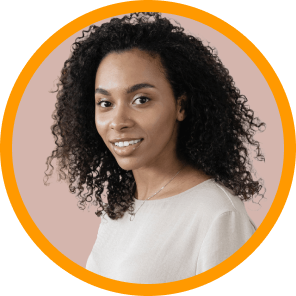
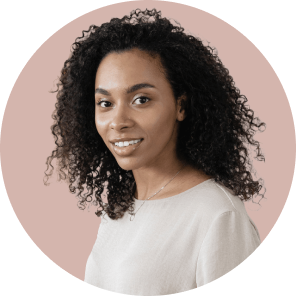
--refactor: slider fixes, merge conflicts fix

Changed region(s): [[0.0, 0.0, 1.0, 1.0]]

diff --git a/index.css b/index.css
@@ -15,29 +15,30 @@
 }
 
 :root {
-	--app-green-200: #00cf8e;
-	--app-blue-200: #00bdff;
-	--app-blue-400: #0043ff;
-	--app-blue-600: #11163b;
-	--app-blue-800: #00081f;
-	--app-black: #000;
-	--app-white: #fff;
-	--app-gray-100: #f8f8f8;
-	--app-gray-400: #cfcfcf;
-	--app-pink-100: #d0c4c4;
-	--app-orange: #ff9900;
-	--app-red: #f84550;
-	--app-primary-font: 'Open sans', helvetica;
-	--app-secondary-font: 'Coolvetica', sans-serif;
-	--app-border-radius-sm: 10px;
-	--app-letter-spacing-lg: 0.5rem;
-	--header-z-index: 1000;
-	--sidebar-z-index: 1500;
-	--form-z-index: 2000;
-	--overlay-z-index: 2000;
-	--modal-z-index: 2000;
-	--loader-z-index: 2500;
-	--toast-z-index: 2500;
+  --app-green-200: #00cf8e;
+  --app-blue-200: #00bdff;
+  --app-blue-400: #0043ff;
+  --app-blue-600: #11163b;
+  --app-blue-800: #00081f;
+  --app-black: #000;
+  --app-white: #fff;
+  --app-gray-100: #f8f8f8;
+  --app-gray-400: #cfcfcf;
+  --app-pink-100: #d0c4c4;
+  --app-orange: #ff9900;
+  --app-red: #f84550;
+  --app-purple: #764afd;
+  --app-primary-font: "Open sans", helvetica;
+  --app-secondary-font: "Coolvetica", sans-serif;
+  --app-border-radius-sm: 10px;
+  --app-letter-spacing-lg: 0.5rem;
+  --header-z-index: 1000;
+  --sidebar-z-index: 1500;
+  --form-z-index: 2000;
+  --overlay-z-index: 2000;
+  --modal-z-index: 2000;
+  --loader-z-index: 2500;
+  --toast-z-index: 2500;
 }
 
 * {

diff --git a/components/TestimonialSection/TestimonyCard/testimony-card.module.css b/components/TestimonialSection/TestimonyCard/testimony-card.module.css
@@ -13,6 +13,31 @@
   line-height: 19.07px;
 }
 
+.container .image-holder img {
+  border-radius: 50%;
+  border: solid 3px !important;
+}
+
+.container:nth-child(odd) .image-holder img {  
+  border-color: var(--app-purple) !important;
+}
+
+.container:first-child .image-holder img, .container:nth-child(3n+1) .image-holder img {
+  border-color: var(--app-blue-400) !important;
+}
+
+.container:nth-child(even) .image-holder img {  
+  border-color: var(--app-orange) !important;
+}
+
+/* .container:nth-child(3n) .image-holder img {  
+  border-color: var(--app-purple) !important;
+} */
+
+/* .container:nth-child() .image-holder img {
+  border-color: var(--app-purple) !important;
+} */
+
 .container p {
   color: var(--app-blue-800);
   font-weight: 300;

diff --git a/components/TestimonialSection/TestimonyCard/index.tsx b/components/TestimonialSection/TestimonyCard/index.tsx
@@ -18,7 +18,9 @@ function TestimonyCard({ name, role, title, desc, headshot }: CardProps) {
         <p className="pt-5">{desc}</p>
 
         <div className="flex items-center pt-10">
-          <div><Image src={headshot} width={74} height={74} /> </div>
+          <div className={`${styles["image-holder"]} ${styles["border-color"]}`}>
+            <Image src={headshot} width={74} height={74} />
+          </div>
           <div className="flex flex-col pl-3">
             <strong>{name}</strong>
             <span>{role}</span>

diff --git a/pages/components/index.tsx b/pages/components/index.tsx
@@ -42,7 +42,7 @@ export default function ComponentsPage() {
 				</div>
 				<p className='text-xl mb-3'>Toast component</p>
 			</section>
-			<section className='container'>
+			<section>
 				<RegistrationModal
 					isActive={modalIsActive}
 					setIsActive={setModalIsActive}
@@ -70,6 +70,9 @@ export default function ComponentsPage() {
 			</section>
 			<section>
 				<Marquee />
+			</section>
+			<section>
+				<TestimonialSection />
 			</section>
 		</main>
 	);

diff --git a/components/TestimonialSection/testimonial-section.module.css b/components/TestimonialSection/testimonial-section.module.css
@@ -1,5 +1,6 @@
 .container {
   width: 100%;
+  background-color: var(--app-gray-100);
 }
 
 .container .spaced-heading {

diff --git a/pages/work/work-page.module.css b/pages/work/work-page.module.css
@@ -1,3 +1,2 @@
 .container {
-  background-color: var(--app-gray-100);
 }
